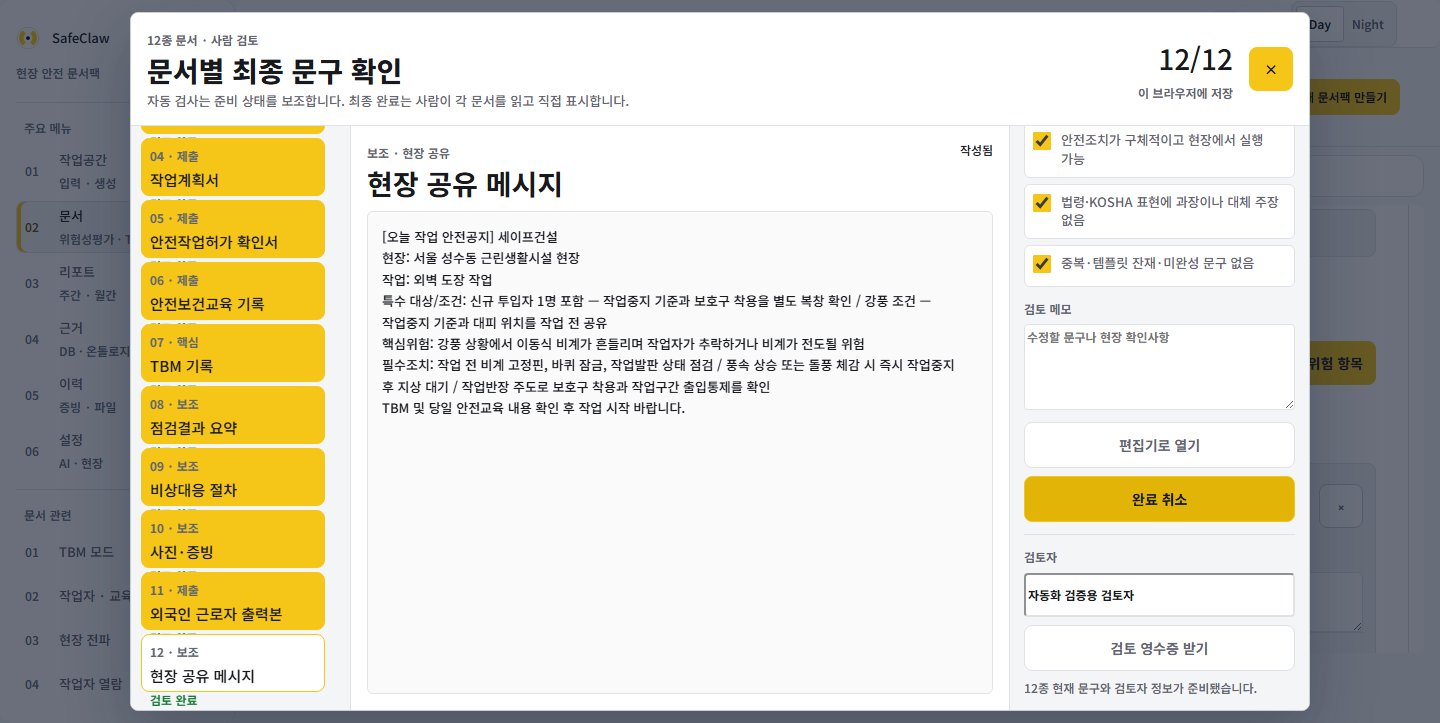
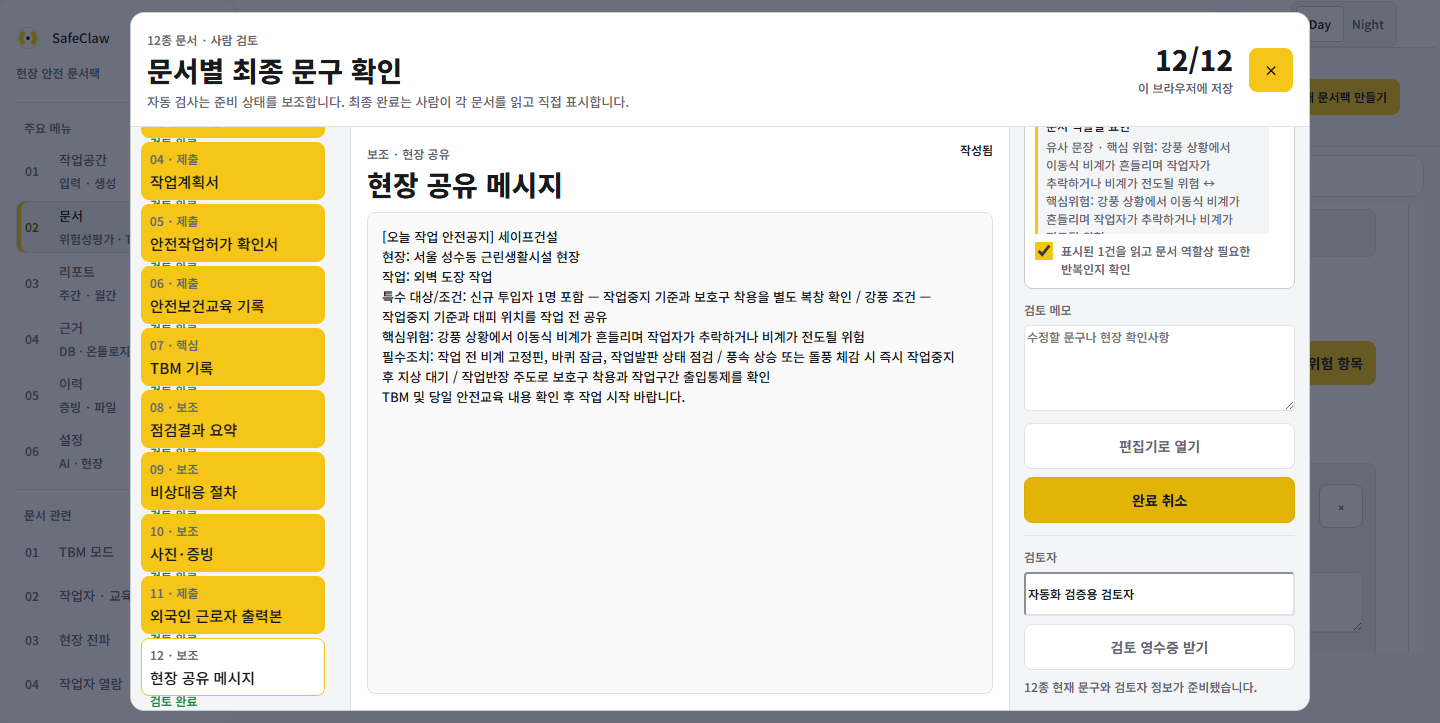
chore: record live editorial finding receipt

diff --git a/evaluation/northstar-open-gates-current/report.md b/evaluation/northstar-open-gates-current/report.md
@@ -1,7 +1,7 @@
 # SafeClaw North Star Open Gate Audit
 
-Generated at: 2026-08-16T18:23:29.908Z
-Source SHA: `3de35eeac0992a91a48b5940ca2fd006940b90fa`
+Generated at: 2026-08-16T21:23:45.014Z
+Source SHA: `158e4f6081b5c466a8ee14bd036e737c800ec4a8`
 Overall: `open`
 
 ## Gate Matrix
@@ -18,7 +18,7 @@ Overall: `open`
 | live_document_wording_review | proven | evaluation\live-document-wording-review-2026-07-24\report.json | Five live production synthetic scenarios pass fail-closed wording and field-usability checks after removing fixed-profile location leakage from structured risk rows. No DB/share-session/provider mutation occurred; broad human review and exact saved Share evidence remain separate. |
 | live_document_broad_review | proven | evaluation\live-document-broad-review-2026-07-25\report.json | All 12 canonical UI deliverables are enumerated and classified across five live production scenarios: uiDocumentCount=12, integrityRequiredCount=12, reviewedDocumentCount=12, before missingUnexpected=5, after-live missingUnexpected=0, and workPermitDraft presentNonEmpty=5/5. DB/share/provider mutation is false and exact saved Share remains MISSING_EVIDENCE. The older six-document synthetic wording gate is not used as 12-document coverage proof. |
 | live_document_editorial_review | proven | evaluation\live-document-editorial-review-2026-07-25\report.json | Five live production scenarios and all 60 canonical document surfaces pass the automated editorial contract: placeholder=0, legal overclaim=0, awkward composition 20->0, and evidence-domain mismatch 1->0. The companion duplicate classifier reduces generic-template overuse 4->0 while retaining exact=31 and near=100 reviewer findings. Near-classification keeps all 100 findings visible while reducing unclassified human-review-required 54->0 through role/context/hazard/control categories. Rain-context isolation evaluation\live-document-rain-context-isolation-2026-07-25\report.json fails the focused production-before scenario at 3 irrelevant document findings, passes the focused live-after at 0, and passes the strengthened five-scenario/60-document contract with 0 forbidden rain fragments, preventing 비산 from being treated as rain. humanReviewCompleted=false, the six-core wording and 12-presence gates are not combined as a human PASS, no DB/share/provider mutation occurred, and exact saved Share remains MISSING_EVIDENCE. |
-| document_editorial_review_cockpit | proven | evaluation\document-editorial-review-cockpit-2026-08-16\report.json | Live Day/Night desktop-short 1440x723 and mobile-short 390x723 pass 4/4 with 12 canonical documents including riskAssessmentDraft, five explicit reviewer checks, a three-zone desktop and one-column mobile cockpit, unchanged page-body height, local-scroll containment, separate stale-aware review storage, zero API calls, and no current-workpack mutation. All four cases also prove deterministic close-button entry focus, one selected and tabbable document tab, Arrow/Home roving navigation, a labelled tabpanel, and Escape focus restoration. A separate live desktop/mobile receipt contract proves a fail-closed local JSON export for 12 documents x 5 checks, current text fingerprints, a recorded self-attested reviewer, and zero API calls. It does not prove reviewer identity, server recording, completed human review, or approval: automatedInteractionOnly=true, humanReviewCompleted=false, broad human wording review remains required, and exact saved Share remains MISSING_EVIDENCE. |
+| document_editorial_review_cockpit | proven | evaluation\document-editorial-review-cockpit-2026-08-16\report.json | Live Day/Night desktop-short 1440x723 and mobile-short 390x723 pass 4/4 with 12 canonical documents including riskAssessmentDraft, five explicit reviewer checks, a three-zone desktop and one-column mobile cockpit, unchanged page-body height, local-scroll containment, separate stale-aware review storage, zero API calls, and no current-workpack mutation. All four cases also prove deterministic close-button entry focus, one selected and tabbable document tab, Arrow/Home roving navigation, a labelled tabpanel, and Escape focus restoration. A separate live desktop/mobile receipt contract proves a fail-closed local JSON export for 12 documents x 5 checks with current text fingerprints plus bound editorial finding IDs, categories, and fingerprints, a recorded self-attested reviewer, and zero API calls. It does not prove reviewer identity, server recording, completed human review, or approval: automatedInteractionOnly=true, humanReviewCompleted=false, broad human wording review remains required, and exact saved Share remains MISSING_EVIDENCE. |
 | current_live_document_editorial_runtime | notice | evaluation\live-document-editorial-review-current-2026-08-16\report.json | Current-source local production passes 5/5 scenarios and 60/60 document surfaces with zero automated editorial findings, while current live production blocks all 5 cases before content review with DISTRIBUTED_RATE_LIMIT_UNAVAILABLE. This is an operator-configuration availability notice, not a live content RED or PASS; 31 exact and 100 near-duplicate findings remain reviewer-visible, humanReviewCompleted=false, no mutation occurred, and exact saved Share remains MISSING_EVIDENCE. |
 | product_capability_truth | proven | evaluation\product-capability-truth-2026-07-25\report.json | Manual email/SMS/Kakao and scheduled briefing email are fail-closed preview-only because persistent idempotency is unavailable. Live dispatch entry copy distinguishes preview/readiness from approved results (evaluation\dispatch-entry-capability-truth-2026-07-28\report.json), and the public landing keeps safety judgment and final confirmation with a human instead of claiming role replacement (evaluation\landing-human-review-boundary-2026-07-28\report.json). Live photo Vision/OCR readiness is accepted-only, AI generation modes are template/enhanced/full, and no DB/share/provider/photo POST mutation occurred. Scoped Documents and Workspace/fixture Share viewport IA is separately proven without accepting route split alone; provider approval and broad human/legal review remain open, and exact saved Share remains MISSING_EVIDENCE. |
 | dependency_security_remediation | proven | evaluation\dependency-security-remediation-2026-07-28\report.json | Live runtime dependency remediation reduced the production lockfile audit from 19 findings to 0 while retaining ExcelJS 4.4.0 and verifying its patched archiver/unzipper write-read path. This is an npm dependency-audit claim, not a full repository security-scan or zero-risk product claim. No mutation occurred and exact saved Share remains MISSING_EVIDENCE. |
@@ -47,7 +47,7 @@ Overall: `open`
 | public_search_distributed_admission | proven | evaluation\public-search-distributed-admission-2026-08-14\report.json | Live legal, safety-reference, and weather provider work fails closed before upstream calls without distributed admission. Shared capacity is 12 with weights 6/3/1 per coalesced job. Immutable finding csf_bb897a39277591f4fbab0ca7 still requires a fresh scan; activation is OPERATOR_CONFIGURATION_REQUIRED, security-complete is false, no mutation occurred, and exact saved Share remains MISSING_EVIDENCE. |
 | public_search_distributed_rate_limit_readiness | notice | evaluation\public-search-distributed-rate-limit-readiness-2026-08-02\report.json | Live production contains an atomic, IP-hashed, fail-closed distributed limiter capability for both public search routes, while read-only probes honestly report X-SafeClaw-Rate-Limit=instance because production Upstash configuration is absent. Distributed activation and a future full scan remain required before closing the two sealed search findings; 13 DB/RLS findings remain approval-gated and exact saved Share remains MISSING_EVIDENCE. |
 | public_generation_admission_security | notice | evaluation\security-public-generation-admission-2026-08-04\report.json | Current production 73f4ac1d re-proves fail-fast instance admission before request parsing, reference search, and AI work on both public generation routes with zero provider or mutation work. The dependency audit remains zero; distributed production activation and the separate fresh diff scan remain open. The immutable baseline is preserved, and exact saved Share remains MISSING_EVIDENCE. |
-| security_followup_remediation | proven | evaluation\codex-security-followup-remediation-2026-08-11\report.json | The sealed follow-up scan's three diff findings (1 medium, 2 low) remain remediated in deployed production with the original 12 files / 129 tests, its 12/147 compatibility check, and the current 23 files / 215 tests public-admission companion. This does not rewrite the immutable original 18-finding baseline, resolve the two deferred candidates, close the separate public generation admission notice, or claim live provider cancellation probing; no mutation occurred and exact saved Share remains MISSING_EVIDENCE. |
+| security_followup_remediation | proven | evaluation\codex-security-followup-remediation-2026-08-11\report.json | The sealed follow-up scan's three diff findings (1 medium, 2 low) remain remediated in deployed production with the original 12 files / 129 tests, its 12/147 compatibility check, and the latest search/KOSHA compatibility receipt (14 files / 245 tests; full CI 249 files / 2927 tests). This does not rewrite the immutable original 18-finding baseline, resolve the two deferred candidates, close the separate public generation admission notice, or claim live provider cancellation probing; no mutation occurred and exact saved Share remains MISSING_EVIDENCE. |
 | mcp_generation_work_budget_security | notice | evaluation\security-mcp-generation-work-budget-2026-08-04\report.json | Current production 87025eb8 re-proves MCP invalid-token 401 fail-closed with instance admission before any MCP tool dispatch, provider call, or mutation. The provider-admission companion preserves the 96 KiB measured body and authentication contracts through 122 adjacent MCP tests; a valid authenticated runtime probe, distributed activation, and fresh security rescan remain open. The sealed finding is unchanged, and exact saved Share remains MISSING_EVIDENCE. |
 | learning_export_renderer_security | proven | evaluation\learning-export-renderer-security-2026-08-02\report.json | Live source alignment proves a renderer-independent inert-text contract for downloaded Markdown/Obsidian learning exports: raw HTML, active/local URI schemes, image/link openers, Obsidian embeds, path metacharacters, and frontmatter are bounded; attachment CSP/no-sniff/no-store/no-referrer controls are present; JSONL provenance remains raw. This bounds the deferred candidate in current source but does not rewrite the sealed partial scan, replace a future full rescan, create a stored workpack, or close exact saved Share MISSING_EVIDENCE. |
 | hermes_remote_durable_ledger | proven | evaluation\hermes-openclaw-runtime-current-gate-2026-07-20\report.json | Current production wires an explicit opt-in durable attempt/terminal ledger with atomic reservation, reservation-bound terminal digest persistence, DNS-pinned trusted transport, and fail-closed readiness. The live unauthenticated probe stops at AUTH_REQUIRED before engine execution; authenticated execution, LLM Wiki, provider persistence, vector runtime, KOSHA promotion, and exact saved Share remain approval-gated or MISSING_EVIDENCE. |

diff --git a/evaluation/northstar-next-runway-current-2026-07-22/report.md b/evaluation/northstar-next-runway-current-2026-07-22/report.md
@@ -4,9 +4,9 @@ Checked at: 2026-07-22 KST
 
 Verdict: `OPEN_APPROVAL_GATED`
 
-Source HEAD: `3de35eeac0992a91a48b5940ca2fd006940b90fa`
+Source HEAD: `158e4f6081b5c466a8ee14bd036e737c800ec4a8`
 
-Production `/api/build-info`: `3de35eeac0992a91a48b5940ca2fd006940b90fa`
+Production `/api/build-info`: `158e4f6081b5c466a8ee14bd036e737c800ec4a8`
 
 Latest evidence commit live: `true`
 
@@ -20,7 +20,7 @@ Current head is evidence-only pending: `false`
 
 Bounded workbench current live pending: `false`
 
-Live rollup source head: `3de35eeac0992a91a48b5940ca2fd006940b90fa`
+Live rollup source head: `158e4f6081b5c466a8ee14bd036e737c800ec4a8`
 
 Live rollup matches production: `true`
 
@@ -48,7 +48,7 @@ Live-rollup artifact: `evaluation\northstar-live-rollup-2026-07-20\report.json`
 - Live synthetic wording and field usability are measured separately: `PASS_LIVE_PRODUCTION_SYNTHETIC_WORDING_REVIEW`, live scenarios passed `5/5`, live pending `false`. This gate catches fixed-profile field leakage and selected-document wording defects, while broad human review and exact saved Share evidence remain separate.
 - Live 12-deliverable presence and applicability are measured separately: `PASS_LIVE_PRODUCTION_12_DELIVERABLE_BROAD_REVIEW`, UI/integrity/reviewed documents `12/12/12`, before missingUnexpected `5`, live missingUnexpected `0`, and workPermitDraft presentNonEmpty `5/5`. The six-document synthetic wording gate is not accepted as 12-document deliverable coverage; exact saved Share remains `MISSING_EVIDENCE`.
 - Live 12-deliverable automated editorial quality is measured separately: `PASS_LIVE_PRODUCTION_12_DELIVERABLE_EDITORIAL_CONTRACT_REVIEWER_READY`, live scenarios `5/5`, reviewed document surface `60`, placeholder/legal/awkward/evidence mismatch `0/0/0/0`, and duplicate findings exact/near `38/100`. This is reviewer-ready automated evidence with humanReviewCompleted=`false`, not a combined human PASS; exact saved Share remains `MISSING_EVIDENCE`.
-- The live 12-document human editorial review cockpit is measured separately: `PASS_LIVE_PRODUCTION_DOCUMENT_EDITORIAL_REVIEW_COCKPIT`, live geometry `4/4`, documents/checks `12/5`, desktop/mobile zones `3/1`, accessibility cases `4/4`, roving tabs/labelled tabpanel/Escape focus restore `true/true/true`, and cockpitReady=`true`. Its local receipt is `PASS_LIVE_PRODUCTION_DOCUMENT_EDITORIAL_REVIEW_RECEIPT`, ready=`true`, locked cases `2/2`, documents/checks `12/5`, and API requests `0`. It proves the bounded local workflow and fail-closed self-attested JSON receipt exist; reviewer identity verified/server recorded/approval granted remain `false/false/false`, humanReviewCompleted=`false`, broadHumanWordingReviewRequired=`true`, mutations DB/provider/Share/vector/wiki/KOSHA=`false/false/false/false/false/false`, and exact saved Share remains `MISSING_EVIDENCE`.
+- The live 12-document human editorial review cockpit is measured separately: `PASS_LIVE_PRODUCTION_DOCUMENT_EDITORIAL_REVIEW_COCKPIT`, live geometry `4/4`, documents/checks `12/5`, desktop/mobile zones `3/1`, accessibility cases `4/4`, roving tabs/labelled tabpanel/Escape focus restore `true/true/true`, and cockpitReady=`true`. Its local receipt is `PASS_LIVE_PRODUCTION_DOCUMENT_EDITORIAL_REVIEW_RECEIPT`, ready=`true`, locked cases `2/2`, documents/checks `12/5`, bound findings/count/reviewed `true/27/true`, and API requests `0`. It proves the bounded local workflow and fail-closed self-attested JSON receipt exist; reviewer identity verified/server recorded/approval granted remain `false/false/false`, humanReviewCompleted=`false`, broadHumanWordingReviewRequired=`true`, mutations DB/provider/Share/vector/wiki/KOSHA=`false/false/false/false/false/false`, and exact saved Share remains `MISSING_EVIDENCE`.
 - Live editorial duplicate classification is measured separately: `PASS_LIVE_PRODUCTION_EDITORIAL_DUPLICATE_CLASSIFICATION_REVIEWER_READY`, generic template overuse `4->0`, retained reviewer findings exact/near `31/100`, and humanReviewCompleted=`false`. Only generic template overuse fails automatically; safety-control and legal-reference repetition remains visible, and exact saved Share remains `MISSING_EVIDENCE`.
 - Live editorial near-duplicate classification preserves `100->100` findings while reducing unclassified human-review-required `54->0`. The retained role-prefix/context/hazard/control categories are `81/9/8/2`; humanReviewCompleted=`false` and exact saved Share remains `MISSING_EVIDENCE`.
 - Live product capability truth is measured separately: `PASS_LIVE_PRODUCTION_PRODUCT_CAPABILITY_TRUTH`; manual/provider dispatch is `preview_only` with reason `persistent_idempotency_unavailable`, scheduled briefing email ready=`false`, photo Vision/OCR ready/accepted-only=`true/true`, and AI modes are `template, enhanced, full`. No provider or photo POST call is claimed. This does not unlock provider persistence; exact saved Share remains `MISSING_EVIDENCE` and Documents/Share IA remains `PASS_SCOPED_LIVE_PRODUCTION_WITH_EXACT_SAVED_SESSION_GAP`.

diff --git a/evaluation/northstar-live-rollup-2026-07-20/report.md b/evaluation/northstar-live-rollup-2026-07-20/report.md
@@ -1,8 +1,8 @@
 # SafeClaw North Star Live Rollup
 
-Generated at: 2026-08-16T18:23:30.892Z
-Source HEAD at generation: 3de35eeac0992a91a48b5940ca2fd006940b90fa
-Live commit at generation: 3de35eeac0992a91a48b5940ca2fd006940b90fa
+Generated at: 2026-08-16T21:23:45.948Z
+Source HEAD at generation: 158e4f6081b5c466a8ee14bd036e737c800ec4a8
+Live commit at generation: 158e4f6081b5c466a8ee14bd036e737c800ec4a8
 
 Note: this artifact is generated before it is committed. The containing Git commit and deployed build must be verified through `git log` and `/api/build-info` after push.
 Overall: `northstar_open_approval_gated`
@@ -92,7 +92,7 @@ Overall: `northstar_open_approval_gated`
 - Live geometry: pass=4/4, fail=0; documents/checks=12/5; desktop/mobile zones=3/1
 - Keyboard and screen reader: cases=4/4; roving tabs=true; labelled tabpanel=true; Escape focus restore=true; cockpit ready=true
 - Human review completed: false; broad human wording review required: true
-- Local review receipt: verdict=PASS_LIVE_PRODUCTION_DOCUMENT_EDITORIAL_REVIEW_RECEIPT; ready=true; locked cases=2/2; documents/checks=12/5; API requests=0
+- Local review receipt: verdict=PASS_LIVE_PRODUCTION_DOCUMENT_EDITORIAL_REVIEW_RECEIPT; ready=true; locked cases=2/2; documents/checks=12/5; findings bound/count/reviewed=true/27/true; API requests=0
 - Receipt boundary: reviewer self-attested=true; identity verified=false; server recorded=false; approval granted=false; proves human identity=false
 - Mutations DB/provider/Share/vector/wiki/KOSHA: false/false/false/false/false/false; exact saved Share: MISSING_EVIDENCE
 - Boundary: this proves a bounded, local, stale-aware human-review workflow and fail-closed self-attested JSON receipt exist; it does not prove reviewer identity, server recording, completed human review, or approval.

diff --git a/evaluation/document-editorial-review-receipt-2026-08-17/report.md b/evaluation/document-editorial-review-receipt-2026-08-17/report.md
@@ -2,10 +2,11 @@
 
 Verdict: `PASS_LIVE_PRODUCTION_DOCUMENT_EDITORIAL_REVIEW_RECEIPT`
 
-Source: `3de35eeac0992a91a48b5940ca2fd006940b90fa`
+Source: `158e4f6081b5c466a8ee14bd036e737c800ec4a8`
 
 - Locked geometry: 2/2
 - Receipt documents/checks: 12/5
+- Editorial findings bound to receipt: 27; fingerprint recorded: true
 - API requests during local review/export: 0
 - Human review completed by this automated probe: `false`
 - Reviewer identity verified or server recorded: `false / false`
